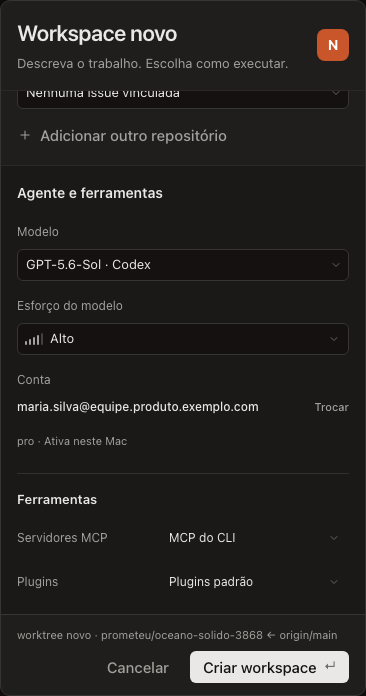
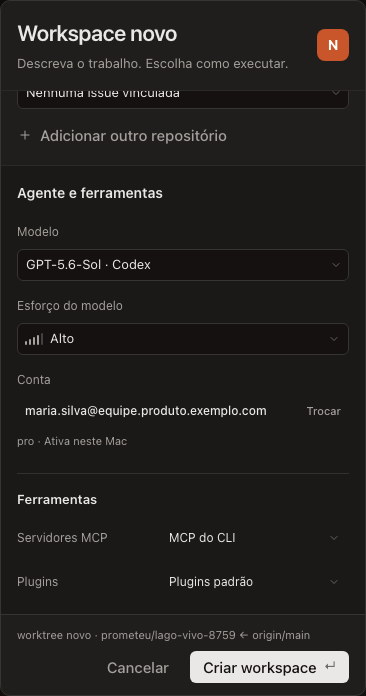
fix(ui): align accounts and space model favorites

Changed region(s): [[0.0601, 0.5733, 0.7213, 0.6034], [0.4208, 0.9052, 0.9016, 0.9353], [0.8415, 0.5733, 0.9617, 0.6034]]

diff --git a/packages/design-system/components.css b/packages/design-system/components.css
@@ -156,7 +156,7 @@ textarea.ui-input { resize: vertical; min-height: 112px; line-height: 1.5; }
 /* Search and footer stay fixed while the collection scrolls independently. */
 .ui-search-picker { box-sizing: border-box; width: 380px; min-width: 0; max-width: calc(100vw - 16px); max-height: min(480px, calc(100dvh - 16px)); gap: var(--space-2); padding: var(--space-2); }
 .ui-search-picker-search { flex: none; width: 100%; box-sizing: border-box; }
-.ui-search-picker-list { min-height: 0; overflow-y: auto; overscroll-behavior: contain; scrollbar-width: thin; scrollbar-gutter: stable; }
+.ui-search-picker-list { min-height: 0; overflow-y: auto; overscroll-behavior: contain; padding-right: var(--space-3); scrollbar-width: thin; scrollbar-gutter: stable; }
 .ui-search-picker-row { display: flex; align-items: center; gap: var(--space-1); padding-right: var(--space-1); border-radius: var(--r); }
 .ui-search-picker-choice { display: flex; align-items: center; flex: 1; min-width: 0; min-height: 44px; height: auto; padding: var(--space-2); border: 0; border-radius: var(--r); background: transparent; color: var(--fg); font: inherit; line-height: 1.5; white-space: normal; text-align: left; cursor: pointer; }
 .ui-search-picker-choice:hover, .ui-search-picker-choice:focus-visible { background: var(--bg-raised-3); }

diff --git a/src/style.css b/src/style.css
@@ -1205,7 +1205,7 @@ body.noside .side { display: none; }
 .launcher .injchip > button { flex: none; }
 .launcher-settings { background: var(--bg-side); border-left: 1px solid var(--line); display: flex; flex-direction: column; gap: var(--space-4); }
 .launcher-settings h2 { margin-bottom: var(--space-1); }
-.launcher-account.ui-button { display: flex; justify-content: space-between; align-items: flex-start; gap: var(--space-3); width: 100%; height: auto; padding: 0; border: 0; text-align: left; }
+.launcher-account.ui-button { display: flex; justify-content: space-between; gap: var(--space-3); width: 100%; height: auto; padding: var(--space-1) var(--space-2); border: 0; text-align: left; }
 .launcher-account-name { min-width: 0; white-space: normal; overflow-wrap: anywhere; color: var(--fg); font-size: 12px; line-height: 1.6; }
 .launcher-account-change { flex: none; color: var(--fg-2); font-size: 11px; line-height: 1.8; }
 .launcher #d-account-field .ui-hint { font-size: 11px; }
